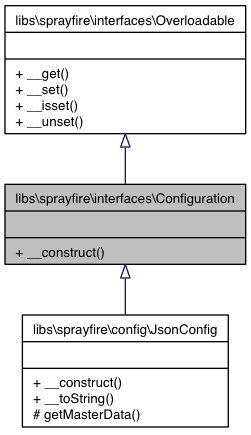
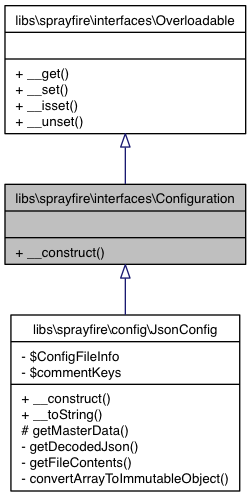
UPD yet another API docs update

diff --git a/interfacelibs_1_1sprayfire_1_1interfaces_1_1_object.html b/interfacelibs_1_1sprayfire_1_1interfaces_1_1_object.html
@@ -115,7 +115,7 @@ Inheritance diagram for libs\sprayfire\interfaces\Object:</div>
 <div class="dyncontent">
 <div class="center"><img src="interfacelibs_1_1sprayfire_1_1interfaces_1_1_object__inherit__graph.png" border="0" usemap="#libs\sprayfire\interfaces\_object_inherit__map" alt="Inheritance graph"/></div>
 <map name="libs\sprayfire\interfaces\_object_inherit__map" id="libs\sprayfire\interfaces\_object_inherit__map">
-<area shape="rect" id="node3" href="classlibs_1_1sprayfire_1_1core_1_1_core_object.html" title="{libs\\sprayfire\\core\\CoreObject\n||+ hashCode()\l+ equals()\l+ __toString()\l}" alt="" coords="262,169,457,282"/><area shape="rect" id="node5" href="classlibs_1_1sprayfire_1_1core_1_1_class_loader.html" title="{libs\\sprayfire\\core\\ClassLoader\n||+ setAutoLoader()\l}" alt="" coords="4,459,208,541"/><area shape="rect" id="node7" href="classlibs_1_1sprayfire_1_1core_1_1_framework_bootstrap.html" title="{libs\\sprayfire\\core\\FrameworkBootstrap\n||+ __construct()\l+ runBootstrap()\l}" alt="" coords="233,451,485,549"/><area shape="rect" id="node9" href="classlibs_1_1sprayfire_1_1datastructs_1_1_data_storage.html" title="{libs\\sprayfire\\datastructs\\DataStorage\n|# $data\l# $count\l|+ __construct()\l+ __get()\l+ offsetGet()\l+ __isset()\l+ offsetExists()\l+ __set()\l+ offsetSet()\l+ __unset()\l+ offsetUnset()\l+ count()\l# get()\l# keyHasValue()\l# keyInData()\l# recalibrateCount()\l# set()\l# removeKey()\l}" alt="" coords="510,331,753,669"/><area shape="rect" id="node11" href="classlibs_1_1sprayfire_1_1datastructs_1_1_immutable_storage.html" title="{libs\\sprayfire\\datastructs\\ImmutableStorage\n||# set()\l# removeKey()\l}" alt="" coords="345,718,623,815"/><area shape="rect" id="node15" href="classlibs_1_1sprayfire_1_1datastructs_1_1_mutable_storage.html" title="{libs\\sprayfire\\datastructs\\MutableStorage\n||# set()\l# removeKey()\l}" alt="" coords="647,718,909,815"/><area shape="rect" id="node13" href="classlibs_1_1sprayfire_1_1config_1_1_json_config.html" title="{libs\\sprayfire\\config\\JsonConfig\n||+ __construct()\l+ __toString()\l# getMasterData()\l}" alt="" coords="381,905,587,1018"/><area shape="rect" id="node17" href="classlibs_1_1sprayfire_1_1datastructs_1_1_mutable_iterator.html" title="{libs\\sprayfire\\datastructs\\MutableIterator\n|# $skipNextIteration\l|+ __construct()\l+ current()\l+ key()\l+ next()\l+ rewind()\l+ valid()\l# set()\l# removeKey()\l}" alt="" coords="649,865,907,1058"/><area shape="rect" id="node19" href="classlibs_1_1sprayfire_1_1datastructs_1_1_spray_fire_object_store.html" title="{libs\\sprayfire\\datastructs\\SprayFireObjectStore\n|# $ReflectedParentType\l|+ __construct()\l+ contains()\l+ indexOf()\l+ isEmpty()\l+ getObject()\l+ setObject()\l# set()\l# throwExceptionIfNotFrameworkObject()\l# isFrameworkObject()\l# throwExceptionIfObjectNotParentType()\l# isObjectParentType()\l}" alt="" coords="630,1107,927,1349"/></map>
+<area shape="rect" id="node3" href="classlibs_1_1sprayfire_1_1core_1_1_core_object.html" title="{libs\\sprayfire\\core\\CoreObject\n||+ hashCode()\l+ equals()\l+ __toString()\l}" alt="" coords="346,169,541,282"/><area shape="rect" id="node5" href="classlibs_1_1sprayfire_1_1core_1_1_class_loader.html" title="{libs\\sprayfire\\core\\ClassLoader\n||+ setAutoLoader()\l&#45; loadClass()\l&#45; convertNamespacedClassToDirectoryPath()\l}" alt="" coords="5,443,293,557"/><area shape="rect" id="node7" href="classlibs_1_1sprayfire_1_1core_1_1_framework_bootstrap.html" title="{libs\\sprayfire\\core\\FrameworkBootstrap\n|&#45; $FrameworkConfiguration\l|+ __construct()\l+ runBootstrap()\l&#45; runAppBootstrap()\l&#45; getAppBootstrapObjects()\l&#45; getListOfBootstrapFiles()\l&#45; getAppBootstrapNamespace()\l&#45; removeFileExtension()\l&#45; removeInvalidBootstrappers()\l&#45; implementsBootstrapperInterface()\l&#45; createBootstrapperObjects()\l&#45; runAllBootstraps()\l&#45; runPostAppBootstrap()\l}" alt="" coords="317,371,569,629"/><area shape="rect" id="node9" href="classlibs_1_1sprayfire_1_1datastructs_1_1_data_storage.html" title="{libs\\sprayfire\\datastructs\\DataStorage\n|# $data\l# $count\l|+ __construct()\l+ __get()\l+ offsetGet()\l+ __isset()\l+ offsetExists()\l+ __set()\l+ offsetSet()\l+ __unset()\l+ offsetUnset()\l+ count()\l# get()\l# keyHasValue()\l# keyInData()\l# recalibrateCount()\l# set()\l# removeKey()\l}" alt="" coords="594,331,837,669"/><area shape="rect" id="node11" href="classlibs_1_1sprayfire_1_1datastructs_1_1_immutable_storage.html" title="{libs\\sprayfire\\datastructs\\ImmutableStorage\n||# set()\l# removeKey()\l}" alt="" coords="429,718,707,815"/><area shape="rect" id="node15" href="classlibs_1_1sprayfire_1_1datastructs_1_1_mutable_storage.html" title="{libs\\sprayfire\\datastructs\\MutableStorage\n||# set()\l# removeKey()\l}" alt="" coords="731,718,993,815"/><area shape="rect" id="node13" href="classlibs_1_1sprayfire_1_1config_1_1_json_config.html" title="{libs\\sprayfire\\config\\JsonConfig\n|&#45; $ConfigFileInfo\l&#45; $commentKeys\l|+ __construct()\l+ __toString()\l# getMasterData()\l&#45; getDecodedJson()\l&#45; getFileContents()\l&#45; convertArrayToImmutableObject()\l}" alt="" coords="454,881,681,1058"/><area shape="rect" id="node17" href="classlibs_1_1sprayfire_1_1datastructs_1_1_mutable_iterator.html" title="{libs\\sprayfire\\datastructs\\MutableIterator\n|# $skipNextIteration\l&#45; $index\l|+ __construct()\l+ current()\l+ key()\l+ next()\l+ rewind()\l+ valid()\l# set()\l# removeKey()\l}" alt="" coords="733,865,991,1074"/><area shape="rect" id="node19" href="classlibs_1_1sprayfire_1_1datastructs_1_1_spray_fire_object_store.html" title="{libs\\sprayfire\\datastructs\\SprayFireObjectStore\n|# $ReflectedParentType\l&#45; $ReflectedFrameworkObject\l|+ __construct()\l+ contains()\l+ indexOf()\l+ isEmpty()\l+ getObject()\l+ setObject()\l# set()\l# throwExceptionIfNotFrameworkObject()\l# isFrameworkObject()\l# throwExceptionIfObjectNotParentType()\l# isObjectParentType()\l}" alt="" coords="714,1123,1011,1381"/></map>
 <center><span class="legend">[<a href="graph_legend.html">legend</a>]</span></center></div>
 <table class="memberdecls">
 <tr><td colspan="2"><h2><a name="pub-methods"></a>
@@ -214,7 +214,7 @@ Public Member Functions</h2></td></tr>
 
 
 <hr class="footer"/><address class="footer"><small>
-Generated on Sat Dec 17 2011 00:29:34 for SprayFire by &#160;<a href="http://www.doxygen.org/index.html">
+Generated on Sat Dec 17 2011 00:49:56 for SprayFire by &#160;<a href="http://www.doxygen.org/index.html">
 <img class="footer" src="doxygen.png" alt="doxygen"/>
 </a> 1.7.6.1
 </small></address>

diff --git a/interfacelibs_1_1sprayfire_1_1interfaces_1_1_object_storage.html b/interfacelibs_1_1sprayfire_1_1interfaces_1_1_object_storage.html
@@ -115,7 +115,7 @@ Inheritance diagram for libs\sprayfire\interfaces\ObjectStorage:</div>
 <div class="dyncontent">
 <div class="center"><img src="interfacelibs_1_1sprayfire_1_1interfaces_1_1_object_storage__inherit__graph.png" border="0" usemap="#libs\sprayfire\interfaces\_object_storage_inherit__map" alt="Inheritance graph"/></div>
 <map name="libs\sprayfire\interfaces\_object_storage_inherit__map" id="libs\sprayfire\interfaces\_object_storage_inherit__map">
-<area shape="rect" id="node5" href="classlibs_1_1sprayfire_1_1datastructs_1_1_spray_fire_object_store.html" title="{libs\\sprayfire\\datastructs\\SprayFireObjectStore\n|# $ReflectedParentType\l|+ __construct()\l+ contains()\l+ indexOf()\l+ isEmpty()\l+ getObject()\l+ setObject()\l# set()\l# throwExceptionIfNotFrameworkObject()\l# isFrameworkObject()\l# throwExceptionIfObjectNotParentType()\l# isObjectParentType()\l}" alt="" coords="5,395,301,637"/><area shape="rect" id="node2" href="interfacelibs_1_1sprayfire_1_1interfaces_1_1_overloadable.html" title="{libs\\sprayfire\\interfaces\\Overloadable\n||+ __get()\l+ __set()\l+ __isset()\l+ __unset()\l}" alt="" coords="33,6,273,135"/></map>
+<area shape="rect" id="node5" href="classlibs_1_1sprayfire_1_1datastructs_1_1_spray_fire_object_store.html" title="{libs\\sprayfire\\datastructs\\SprayFireObjectStore\n|# $ReflectedParentType\l&#45; $ReflectedFrameworkObject\l|+ __construct()\l+ contains()\l+ indexOf()\l+ isEmpty()\l+ getObject()\l+ setObject()\l# set()\l# throwExceptionIfNotFrameworkObject()\l# isFrameworkObject()\l# throwExceptionIfObjectNotParentType()\l# isObjectParentType()\l}" alt="" coords="5,395,301,653"/><area shape="rect" id="node2" href="interfacelibs_1_1sprayfire_1_1interfaces_1_1_overloadable.html" title="{libs\\sprayfire\\interfaces\\Overloadable\n||+ __get()\l+ __set()\l+ __isset()\l+ __unset()\l}" alt="" coords="33,6,273,135"/></map>
 <center><span class="legend">[<a href="graph_legend.html">legend</a>]</span></center></div>
 <table class="memberdecls">
 <tr><td colspan="2"><h2><a name="pub-methods"></a>
@@ -329,7 +329,7 @@ Public Member Functions</h2></td></tr>
 
 
 <hr class="footer"/><address class="footer"><small>
-Generated on Sat Dec 17 2011 00:29:34 for SprayFire by &#160;<a href="http://www.doxygen.org/index.html">
+Generated on Sat Dec 17 2011 00:49:56 for SprayFire by &#160;<a href="http://www.doxygen.org/index.html">
 <img class="footer" src="doxygen.png" alt="doxygen"/>
 </a> 1.7.6.1
 </small></address>

diff --git a/interfacelibs_1_1sprayfire_1_1interfaces_1_1_framework_paths.html b/interfacelibs_1_1sprayfire_1_1interfaces_1_1_framework_paths.html
@@ -115,7 +115,7 @@ Inheritance diagram for libs\sprayfire\interfaces\FrameworkPaths:</div>
 <div class="dyncontent">
 <div class="center"><img src="interfacelibs_1_1sprayfire_1_1interfaces_1_1_framework_paths__inherit__graph.png" border="0" usemap="#libs\sprayfire\interfaces\_framework_paths_inherit__map" alt="Inheritance graph"/></div>
 <map name="libs\sprayfire\interfaces\_framework_paths_inherit__map" id="libs\sprayfire\interfaces\_framework_paths_inherit__map">
-<area shape="rect" id="node3" href="classlibs_1_1sprayfire_1_1core_1_1_spray_fire_directory.html" title="{libs\\sprayfire\\core\\SprayFireDirectory\n||+ setRootInstallationPath()\l+ getAppPath()\l+ getAppPathSubDirectory()\l+ getFrameworkPath()\l+ getFrameworkPathSubDirectory()\l}" alt="" coords="16,201,256,346"/></map>
+<area shape="rect" id="node3" href="classlibs_1_1sprayfire_1_1core_1_1_spray_fire_directory.html" title="{libs\\sprayfire\\core\\SprayFireDirectory\n|&#45; $installRoot\l&#45; $frameworkRoot\l&#45; $appRoot\l|+ setRootInstallationPath()\l+ getAppPath()\l+ getAppPathSubDirectory()\l+ getFrameworkPath()\l+ getFrameworkPathSubDirectory()\l&#45; getSubDirectoryPath()\l}" alt="" coords="16,201,256,394"/></map>
 <center><span class="legend">[<a href="graph_legend.html">legend</a>]</span></center></div>
 <table class="memberdecls">
 <tr><td colspan="2"><h2><a name="pub-static-methods"></a>
@@ -259,7 +259,7 @@ Static Public Member Functions</h2></td></tr>
 
 
 <hr class="footer"/><address class="footer"><small>
-Generated on Sat Dec 17 2011 00:29:34 for SprayFire by &#160;<a href="http://www.doxygen.org/index.html">
+Generated on Sat Dec 17 2011 00:49:56 for SprayFire by &#160;<a href="http://www.doxygen.org/index.html">
 <img class="footer" src="doxygen.png" alt="doxygen"/>
 </a> 1.7.6.1
 </small></address>
